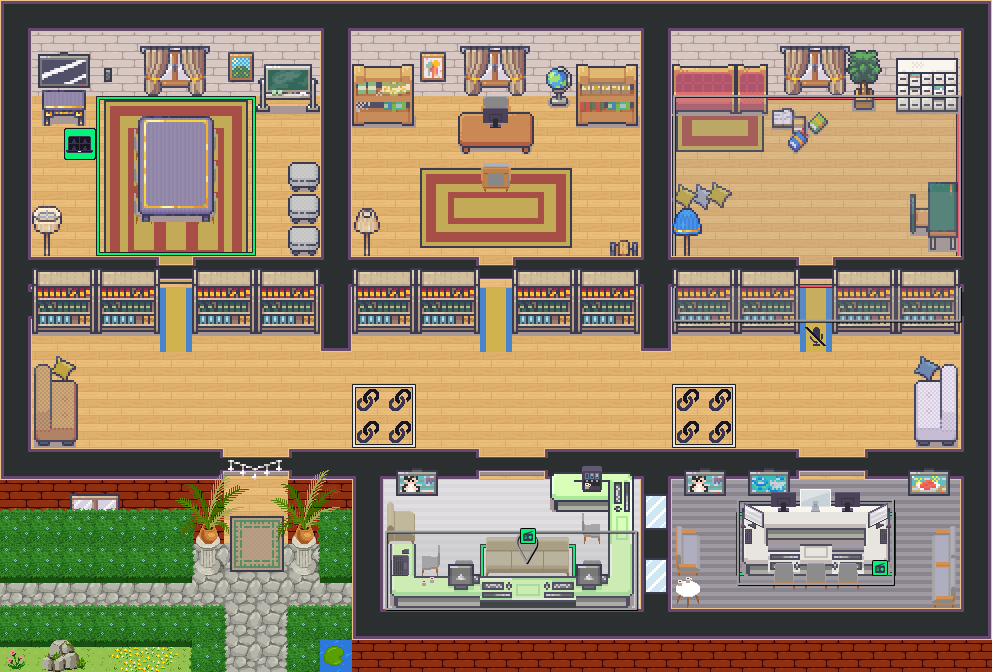
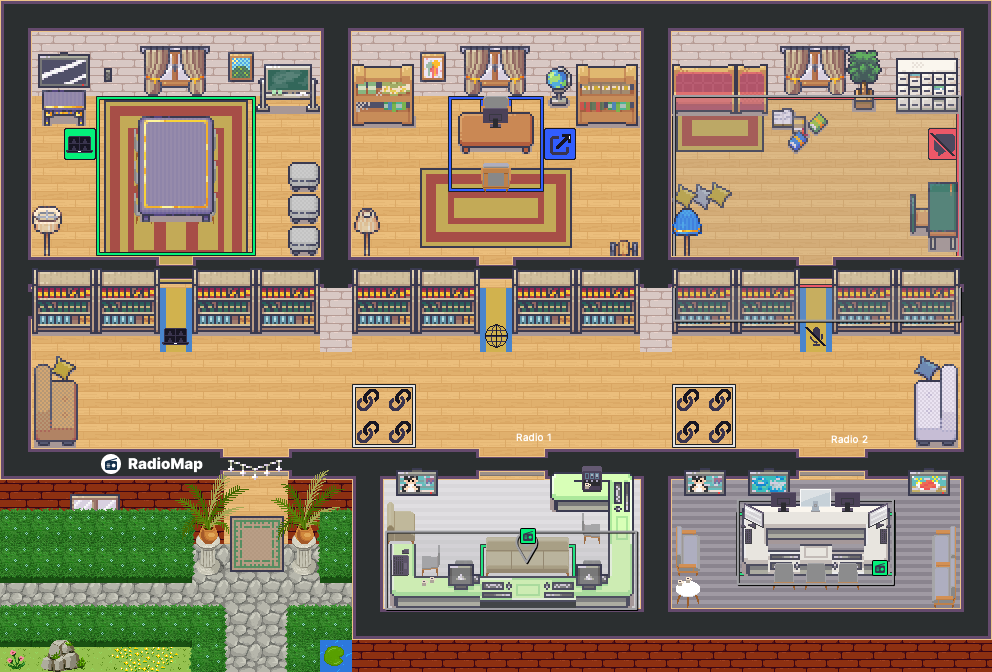
resolve conflits with fix-github-action branch

diff --git a/radio.html b/radio.html
@@ -20,56 +20,26 @@
             <button id="play">Play</button>
 
             <div id="radio-selection">
-                <img src="/images/radio_france_info.png" alt="Radio France" url="   https://direct.franceinfo.fr/live/franceinfo-hifi.aac">
+                <img src="/images/radio_france_info.png" alt="Radio France" url="https://direct.franceinfo.fr/live/franceinfo-hifi.aac">
                 <img src="/images/radio_france_musique.png" alt="Radio France Musique" url="https://direct.franceinter.fr/live/francemusique-hifi.aac">
                 <img src="/images/radio_france_culture.png" alt="Radio France Culture" url="https://direct.franceculture.fr/live/franceculture-hifi.aac">
             </div>
             
             <script>
-                var audio = new Audio();
-                var playButton = document.getElementById("play");
                 var images = document.getElementsByTagName("img");
-
-                playButton.addEventListener("click", function() {
-                    if (audio.paused) {
-                        toogleRadio();
-                    } else {
-                        toogleRadio();
-                    }
-                });
 
                 for (var i = 0; i < images.length; i++) {
                     images[i].addEventListener("click", function() {
                         var url = this.getAttribute("url");
-                        audio.src = url;
-                        audio.play();
-                        playButton.innerHTML = "Pause";
+                        changeRadio(url);
+
                     });
                 }
 
-                WA.state.onVariableChange('radio').subscribe((value) => {
-                    console.log('Variable "config" changed. New value: ', value.radioUrl);
-                    audio.src = value.radioUrl;
-                    toogleRadio();
-                });
-
-                function toogleButton() {
-                    if (audio.paused) {
-                        playButton.innerHTML = "Play";
-                    } else {
-                        playButton.innerHTML = "Pause";
-                    }
-                }
-
-
-                function toogleRadio() {
-                    if (audio.paused) {
-                        audio.play();
-                        playButton.innerHTML = "Pause";
-                    } else {
-                        audio.pause();
-                        playButton.innerHTML = "Play";
-                    }
+                async function changeRadio(url) {
+                    const area = await WA.room.area.get('radio');
+                    console.log('Area', area);
+                    area.setProperty('playAudio', url);
                 }
 
 

diff --git a/src/main.ts b/src/main.ts
@@ -19,40 +19,28 @@ WA.onInit().then(() => {
 
     WA.room.area.onLeave('clock').subscribe(closePopup)
 
-    WA.room.area.onLeave('radio').subscribe(async () => {
-
-        await WA.players.configureTracking({
-            players: true,
-            movement: false,
-          });
-
-        const players = Array.from(WA.players.list());
-
-        const radio = await WA.state.loadVariable('radio');
-
-        if(radio.radioOwnerUserId && players.length > 0){
-            const radioOwnerUserId = players[0].uuid;
-            WA.state.saveVariable('radio', { radioOwnerUserId});
-            console.log("Le nouveau propriétaire de la radio  :", radioOwnerUserId);
-        }
-        //TODO: Vérifier s'il y a aucun player dans la room ppur mettre la variable radioOwnerUserId à null
-
-    });
-    
-    WA.room.area.onEnter('radio').subscribe(async () => {
+    WA.room.area.onEnter('radio').subscribe(() => {
         WA.event.broadcast("bell-rang", {});
-
-        let radio = await WA.state.loadVariable('radio');
-        
-        if (!radio.radioOwnerUserId) {
-            const radioOwnerUserId = WA.player.id;
-            WA.state.saveVariable('radio', { radioOwnerUserId });
-            console.log("Le nouveau propriétaire de la radio  :", radioOwnerUserId);
-
-        } else {
-            console.log("Il y a déjà un propriétaire pour la radio :", radio.radioOwnerUserId);
-        }
+        WA.player.state.saveVariable("radio_can_play", false);
+        console.log(WA.player.state.radio);
     });
+
+    WA.room.area.onLeave('radio').subscribe(() => {
+        // TODO FIX : need an action from user to replay music
+        WA.player.state.saveVariable("radio_can_play", true);
+    });
+
+    WA.room.website.create(
+        {
+            name: 'radioEveryWhere',
+            url: 'http://localhost:5173/radioEveryWhereController.html',
+            position: { x: 0, y: 0, width: 1, height: 1 },
+            visible: false,
+            allowApi: true,
+            origin: 'map',
+            scale: 1
+        }
+    );
 
     const bellSound = WA.sound.loadSound("sounds/door-bell-1.mp3");
 
@@ -76,5 +64,4 @@ function closePopup(){
     }
 }
 
-export { };
-
+export {};
